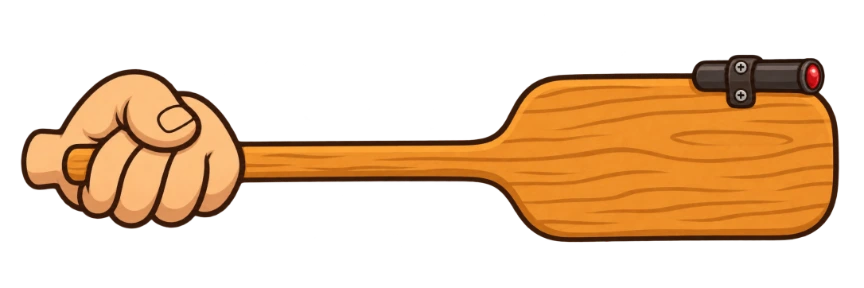
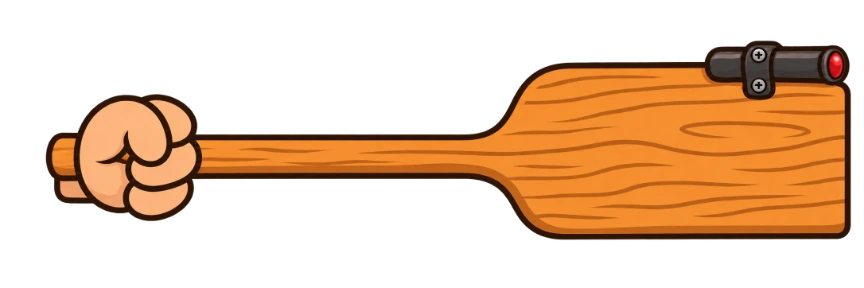
Draw the paddle handle through the chef’s palm
Fixes #33

Changed region(s): [[0.0, 0.125, 1.0, 0.8438]]

diff --git a/index.html b/index.html
@@ -58,7 +58,7 @@
   <script src="scripts/hours.js" defer></script>
   <script src="scripts/medallion.js" defer></script>
   <script src="scripts/gallery.js?v=4" defer></script>
-  <script type="module" src="site/chef-tour/spinners-tours.mjs?v=8"></script>
+  <script type="module" src="site/chef-tour/spinners-tours.mjs?v=9"></script>
   <script type="module" src="scripts/visit-map.mjs?v=1"></script>
 </head>
 <body>

diff --git a/site/layout.html b/site/layout.html
@@ -58,7 +58,7 @@
   <script src="scripts/hours.js" defer></script>
   <script src="scripts/medallion.js" defer></script>
   <script src="scripts/gallery.js?v=4" defer></script>
-  <script type="module" src="site/chef-tour/spinners-tours.mjs?v=8"></script>
+  <script type="module" src="site/chef-tour/spinners-tours.mjs?v=9"></script>
   <script type="module" src="scripts/visit-map.mjs?v=1"></script>
 </head>
 <body>

diff --git a/site/chef-tour/README.md b/site/chef-tour/README.md
@@ -41,6 +41,10 @@ Built-in ImageGen used the November 26 screenshot in the [grip fix chat](codex:/
 
 > Create one isolated 2D transparent animation sprite for the original Spinner's Pizza chef in the attached screenshot, using it only as a reference for art style and skin color. Draw the chef's peach-colored closed hand and a large wooden pizza spatula (small pizza peel) as ONE continuous painted object. Strong three-quarter view of the knuckles and thumb. Bare wrist enters the fist from the LEFT with a short rounded skin tab that can tuck under an existing white sleeve. Wooden spatula handle runs almost exactly HORIZONTAL to the RIGHT, clearly pinched inside a fully closed fist. The four curled fingers and thumb visibly overlap the wooden shaft, with a small blunt end of the same shaft visible just on the other side of the fingers where it can be seen above the wrist. The shaft must emerge directly from between the curled fingers as wood, with zero air gap. The wide, flat, long rounded rectangular paddle has a clean pizza peel shape and reads immediately: blade about twice as tall as the fist, width of blade close to twice its height, full utensil about six fist-widths long. A tiny charcoal laser pointer with a red glass lens is firmly strapped to the top outside edge of the paddle, with the lens at the RIGHTMOST end of the pointer and aimed to the right, parallel to the horizontal shaft. No red beam. Match the chef's late-20th-century hand-inked restaurant mascot style, clean dark brown linework, flat warm peach skin with subtle light and shadow, amber wood, simple grain, comparable outline weight. Orthographic cartoon side view, no perspective foreshortening. Only this one continuous hand-and-spatula cutout, completely in frame with clear padding and real alpha across the rest of the canvas. No sleeve, arm, face, body, lettering, background, surface, label, border, or cast shadow. Wide horizontal composition.
 
+For the revised grip and squared blade, built-in ImageGen used Spinner’s original front-right fist from the presentation atlas and the horizontal composition Joe pointed to.
+
+> Edit image 1, an isolated transparent sprite of Spinner's chef holding a pizza peel. Use image 2's TOP RIGHT fist for his exact simple anatomy and line style. Image 3 shows the horizontal setup to keep. Make the grasp unmistakable: keep a compact round palm with a soft peach bare wrist tab emerging at the far left. Lay the same horizontal wooden handle ACROSS HIS PALM, with the shaft on the viewer-facing side of the palm, then curl three short overlapping peach finger pads over that handle in the foreground. They occlude the wood visibly. Lay the thumb naturally across one of the curled fingers to close the grip. Paint the dark contact seams between skin and wood at the wrap. A short blunt amber butt of the EXACT SAME HANDLE, at the exact same vertical level as the main rightward shaft, projects from the wrist side of the closed fingers and is visible over the upper edge of the palm above the peach wrist tab. Keep a visible little amber window at the thumb web if helpful. A continuous imaginary horizontal centerline connects the visible wooden butt and rightward length through the curled fingers. The wood should not visually meet the outer edge of a full opaque fist with no evidence it is captured by the fingers. Closed comfortable grip, no nails or long fingers. Keep the entire handle and board long axis HORIZONTAL toward the right. Make the outer end of the large rectangular wooden blade more square: straight vertical far right edge, almost square outer corners. Keep the handle shoulder transition and overall prop dimensions. Keep the compact laser on the far end of the wood and the red lens pointing right. Same square-ish paddle height, warm wood, simple grain, clear ink lines, and one connected transparent asset. No sleeve, scene, text, beam, extra digits or shadows.
+
 ## Tornado and directional dust
 
 The tornado uses 32 transparent frames, from eight ImageGen key frames with three motion-interpolated drawings between each pair. Register each pose at its waist. The funnel and the foreground curl share that pivot, forming the chef’s lower half. Flight and dragging increase the spin rate. The funnel banks with direction and grows with speed. Four dust sprites are spaced along the path behind the funnel. Faster motion makes the trail longer and slower to fade.
